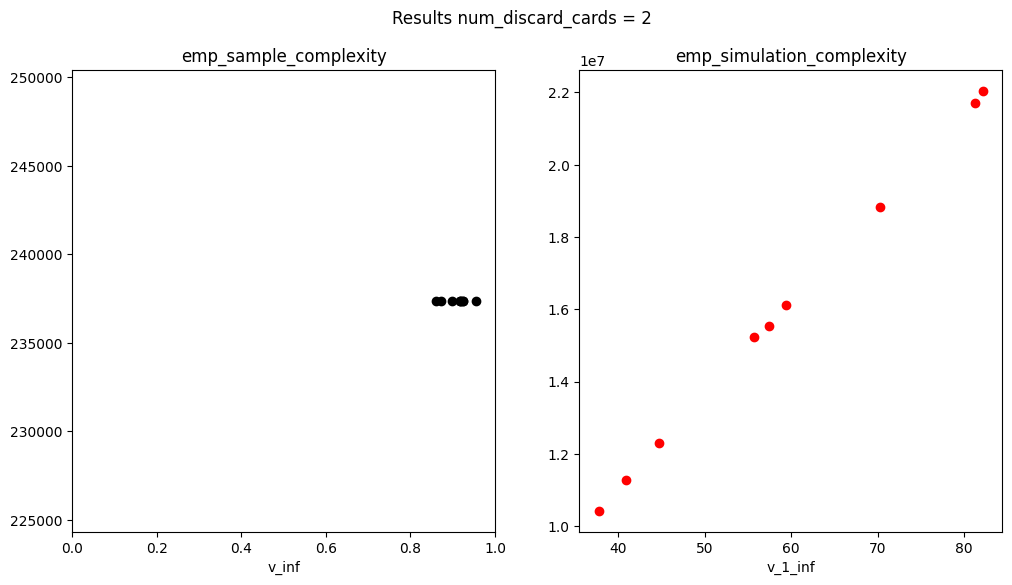
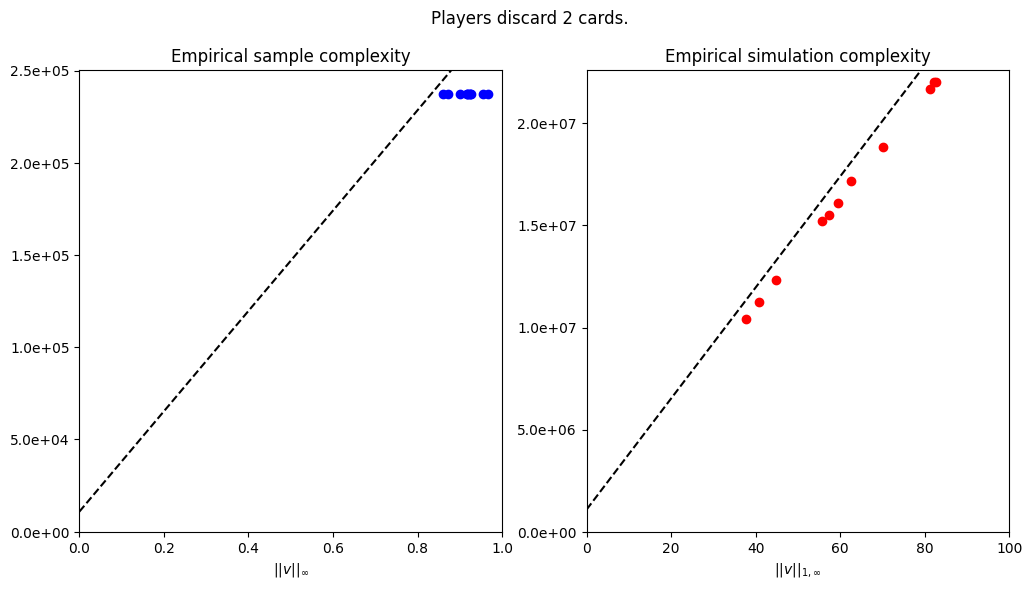
plots with bounds

diff --git a/plots.py b/plots.py
@@ -1,35 +1,104 @@
-import pandas as pd
-import numpy as np
 import matplotlib.pyplot as plt
+import matplotlib.ticker as mtick
+import pandas as pd
+
+from algorithms import compute_schedule_length
+from stats import compute_sample_complexity, compute_simulation_complexity
+
+
+def bounds_line(num_discard_cards):
+
+    # TODO: Parameters of experiments: this is probably bad practice and needs to be refactored.
+    exp_target_delta = 0.05
+    exp_target_eps = 0.01
+    beta = 1.1
+
+    schedule_length = compute_schedule_length(target_epsilon=exp_target_eps, beta=beta)
+    size_of_game = 100 if num_discard_cards == 2 else 25
+    v_inf_resolution_grid = [i * 0.01 for i in range(0, 100)]
+    v_1_inf_resolution_grid = [i for i in range(0, size_of_game)]
+
+    v_inf_grid = [
+        compute_sample_complexity(
+            schedule_length=schedule_length,
+            epsilon=exp_target_eps,
+            delta=exp_target_delta,
+            v_inf=x,
+            game={"size_of_game": size_of_game},
+            c=2,
+            beta=beta,
+        )
+        for x in [i * 0.01 for i in range(0, 100)]
+    ]
+
+    v_1_inf_grid = [
+        compute_simulation_complexity(
+            schedule_length=schedule_length,
+            epsilon=exp_target_eps,
+            delta=exp_target_delta,
+            v_1_inf=x,
+            game={"size_of_game": size_of_game},
+            c=2,
+            beta=beta,
+        )
+        for x in v_1_inf_resolution_grid
+    ]
+
+    return {
+        "v_inf_grid": {"x": v_inf_resolution_grid, "y": v_inf_grid},
+        "v_1_inf_grid": {"x": v_1_inf_resolution_grid, "y": v_1_inf_grid},
+    }
 
 
 def game_scatter_plot(results, num_discard_cards):
+    # Select results based on num_discard_cards
     results_to_plot = results[results["num_discard_cards"] == num_discard_cards]
-    fig, (ax1, ax2) = plt.subplots(1, 2)
-    fig.suptitle(f"Results num_discard_cards = {num_discard_cards}")
 
+    # Plotting side-by-side.
+    fig, (ax1, ax2) = plt.subplots(1, 2)
+
+    # Set plot title.
+    if num_discard_cards == 1:
+        fig.suptitle(f"Players discard {num_discard_cards} card.")
+    else:
+        fig.suptitle(f"Players discard {num_discard_cards} cards.")
+
+    # Scatter plot for Empirical sample complexity
     x = results_to_plot["v_inf"]
     y = results_to_plot["emp_sample_complexity"]
-    print(x.min(), x.max())
-    ax1.plot(x, y, "o", color="black")
-    ax1.set_title("emp_sample_complexity")
+    ax1.plot(x, y, "o", color="blue")
+    ax1.set_title("Empirical sample complexity")
     ax1.set_xlim(0, 1)
-    ax1.set_xlabel("v_inf")
+    ax1.set_ylim(0)
+    ax1.yaxis.set_major_formatter(mtick.FormatStrFormatter("%.1e"))
+    ax1.set_xlabel(r"$||v||_{\infty}$")
 
+    # Scatter plot for Empirical simulation complexity
     x = results_to_plot["v_1_inf"]
     y = results_to_plot["emp_simulation_complexity"]
     ax2.plot(x, y, "o", color="red")
-    ax2.set_title("emp_simulation_complexity")
-    # ax2.set_xlim(0, 1)
-    ax2.set_xlabel("v_1_inf")
+    ax2.set_title("Empirical simulation complexity")
+    ax2.set_xlim(0, 100 if num_discard_cards == 2 else 25)
+    ax2.set_ylim(0)
+    ax2.yaxis.set_major_formatter(mtick.FormatStrFormatter("%.1e"))
+    ax2.set_xlabel(r"$||v||_{1,\infty}$")
 
-    # plt.show()
+    # Plot bounds
+    bounds = bounds_line(num_discard_cards=num_discard_cards)
+    ax1.plot(bounds["v_inf_grid"]["x"], bounds["v_inf_grid"]["y"], "--", color="black")
+    ax2.plot(
+        bounds["v_1_inf_grid"]["x"], bounds["v_1_inf_grid"]["y"], "--", color="black"
+    )
+
+    # Plot and save figure.
     figure = plt.gcf()
     figure.set_size_inches(12, 6)
     plt.savefig(f"plots/num_discard_cards-{num_discard_cards}.png", bbox_inches="tight")
 
 
 if __name__ == "__main__":
+
+    # Read results
     games = pd.read_csv("results/games.csv")
     psp_runs = pd.read_csv("results/psp_runs.csv")
 
@@ -41,5 +110,6 @@ if __name__ == "__main__":
     )
     exp_results.to_csv("results/join.csv", index=None)
 
+    # Plot results.
     game_scatter_plot(results=exp_results, num_discard_cards=1)
     game_scatter_plot(results=exp_results, num_discard_cards=2)

diff --git a/experiments.py b/experiments.py
@@ -114,7 +114,7 @@ if __name__ == "__main__":
     # Fixed parameters: delta, and the number of psp runs.
     exp_target_delta = 0.05
     exp_number_psp_runs = 1
-    number_of_games = 10
+    number_of_games = 1
     exp_target_eps_grid = [0.01]
     exp_num_discard_cards_grid = [1, 2]
 
